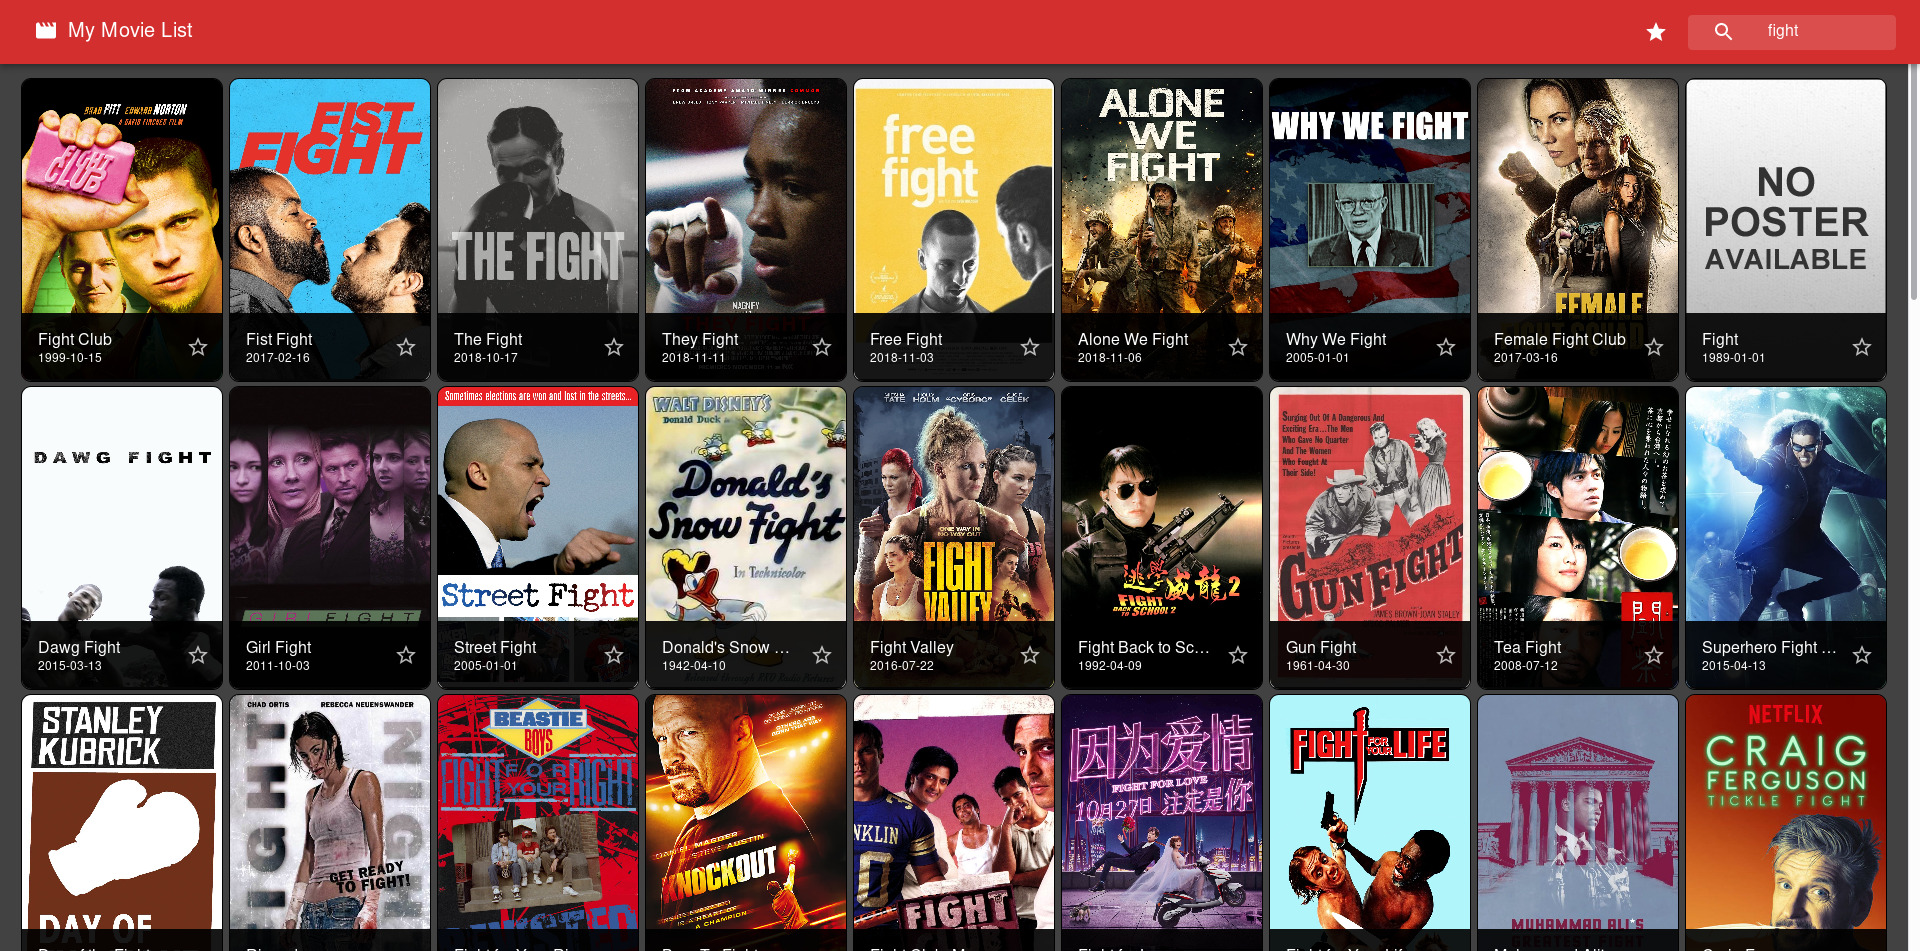
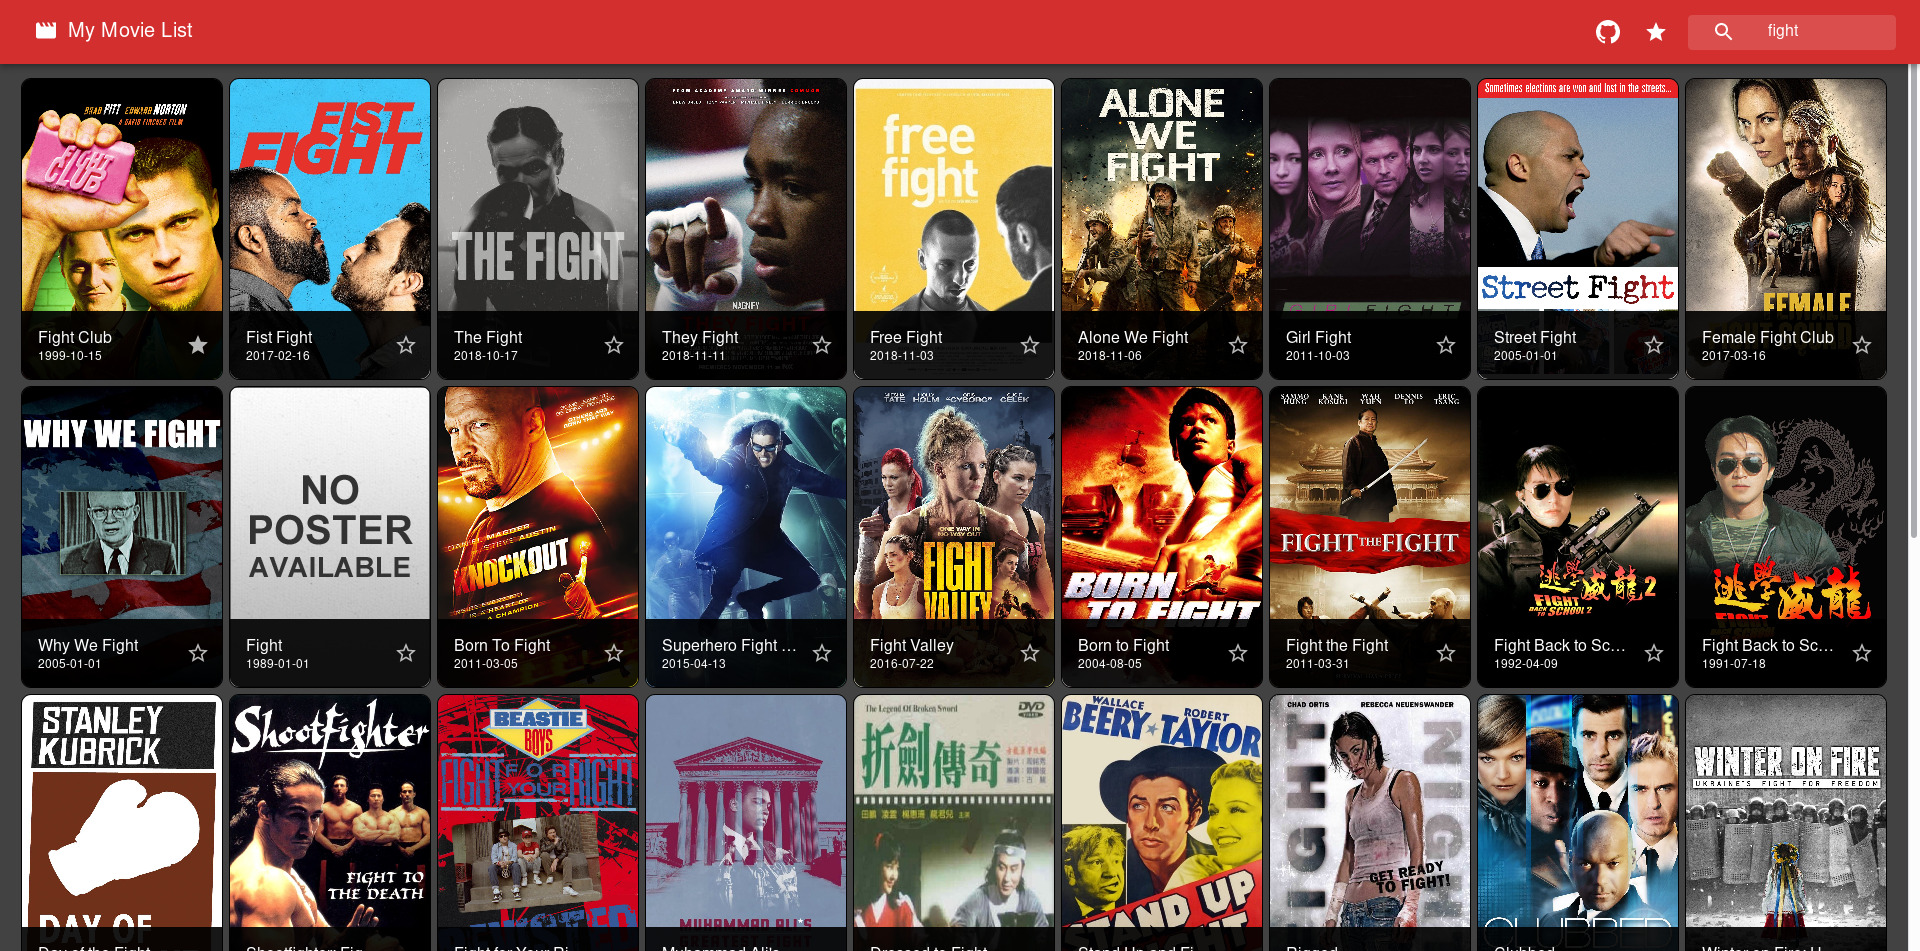
Add favorites list
Closes #1

diff --git a/src/components/MovieGrid/MovieItem.jsx b/src/components/MovieGrid/MovieItem.jsx
@@ -1,4 +1,5 @@
 import { service as TMDBService } from "../../services/tmdb";
+import { service as FavoritesService } from "../../services/favorites";
 import GridListTile from "@material-ui/core/GridListTile";
 import PropTypes from "prop-types";
 import ReactImageFallback from "react-image-fallback";
@@ -6,10 +7,24 @@ import React, { Component } from "react";
 import GridListTileBar from "@material-ui/core/GridListTileBar";
 import IconButton from "@material-ui/core/IconButton";
 import StarBorderIcon from "@material-ui/icons/StarBorder";
+import StarIcon from "@material-ui/icons/Star";
 
 class MovieItem extends Component {
+  constructor(props) {
+    super(props);
+
+    this.state = { favorite: FavoritesService.isFavorite(props.movie) };
+  }
+
   render() {
     const { movie, classes } = this.props;
+
+    let icon;
+    if (this.state.favorite) {
+      icon = <StarIcon />;
+    } else {
+      icon = <StarBorderIcon />;
+    }
 
     return (
       <GridListTile
@@ -29,8 +44,16 @@ class MovieItem extends Component {
           title={movie.title}
           subtitle={<span>{movie.release_date}</span>}
           actionIcon={
-            <IconButton className={classes.icon}>
-              <StarBorderIcon />
+            <IconButton
+              className={classes.icon}
+              onClick={() => {
+                FavoritesService.toggle(movie);
+                this.setState({
+                  favorite: FavoritesService.isFavorite(movie),
+                });
+              }}
+            >
+              {icon}
             </IconButton>
           }
         />

diff --git a/src/services/favorites.js b/src/services/favorites.js
@@ -1,0 +1,50 @@
+const favoritesKey = "my-movie-list-favorites";
+
+class FavoritesService {
+  /**
+   * Save or remove a movie to user's favorites list.
+   *
+   * @param {any} movie Movie to save.
+   * @memberof FavoritesService
+   */
+  toggle(movie) {
+    const favorites = this.get();
+    const index = favorites.findIndex(m => m.id === movie.id);
+
+    if (index === -1) {
+      favorites.push(movie);
+    } else {
+      favorites.splice(index, 1);
+    }
+
+    window.localStorage.setItem(favoritesKey, JSON.stringify(favorites));
+  }
+
+  /**
+   * Get all favorites.
+   *
+   * @return {any[]} List of favorite movies
+   * @memberof FavoritesService
+   */
+  get() {
+    const json = window.localStorage.getItem(favoritesKey);
+    if (json == null || json.length === 0) {
+      return [];
+    }
+
+    return JSON.parse(json);
+  }
+
+  /**
+   * Check if a movie is favorite.
+   *
+   * @param {*} movie Movie to check.
+   * @return {boolean} If is favorite.
+   * @memberof FavoritesService
+   */
+  isFavorite(movie) {
+    return this.get().find(m => m.id === movie.id) != null;
+  }
+}
+
+export const service = new FavoritesService();

diff --git a/src/components/App/App.jsx b/src/components/App/App.jsx
@@ -1,4 +1,5 @@
 import { service as TMDBService } from "../../services/tmdb";
+import { service as FavoritesService } from "../../services/favorites";
 import MovieGrid from "../MovieGrid/MovieGrid";
 import NavigationBar from "../NavigationBar/NavigationBar";
 import React, { Component } from "react";
@@ -9,14 +10,19 @@ class App extends Component {
   constructor(props) {
     super(props);
 
-    this.state = { hasNext: true, results: [] };
+    this.state = { hasNext: false, results: FavoritesService.get() };
   }
 
   render() {
     return (
       <div className="App">
         <MuiThemeProvider theme={theme}>
-          <NavigationBar search={q => this.handleQueryChange(q)} />
+          <NavigationBar
+            onFavorites={() =>
+              this.setState({ hasNext: false, results: FavoritesService.get() })
+            }
+            onSearch={q => this.handleQueryChange(q)}
+          />
           <MovieGrid
             movies={this.state.results}
             hasNext={this.state.hasNext}

diff --git a/src/components/NavigationBar/NavigationBar.jsx b/src/components/NavigationBar/NavigationBar.jsx
@@ -40,7 +40,10 @@ class NavigationBar extends Component {
             >
               <GitHubIcon />
             </IconButton>
-            <IconButton className={classes.iconButton}>
+            <IconButton
+              onClick={() => this.props.onFavorites()}
+              className={classes.iconButton}
+            >
               <StarIcon />
             </IconButton>
             <div className={classes.search}>
@@ -69,13 +72,14 @@ class NavigationBar extends Component {
    */
   async handleQueryChange(e) {
     this.setState({ searching: true });
-    await this.props.search(e.target.value);
+    await this.props.onSearch(e.target.value);
     this.setState({ searching: false });
   }
 }
 
 NavigationBar.propTypes = {
-  search: PropTypes.func.isRequired,
+  onSearch: PropTypes.func.isRequired,
+  onFavorites: PropTypes.func.isRequired,
   classes: PropTypes.object,
 };
 

diff --git a/src/services/tmdb.js b/src/services/tmdb.js
@@ -1,4 +1,5 @@
 import debounce from "awesome-debounce-promise";
+import { service as FavoritesService } from "./favorites";
 import TMDB from "../config/tmdb";
 
 const search = debounce(
@@ -20,7 +21,7 @@ class TMDBService {
    */
   async fetchMovies(query, page) {
     if (!query || query.length === 0) {
-      return { results: [], hasNext: false };
+      return { results: FavoritesService.get(), hasNext: false };
     }
 
     const response = await search(query, page);
